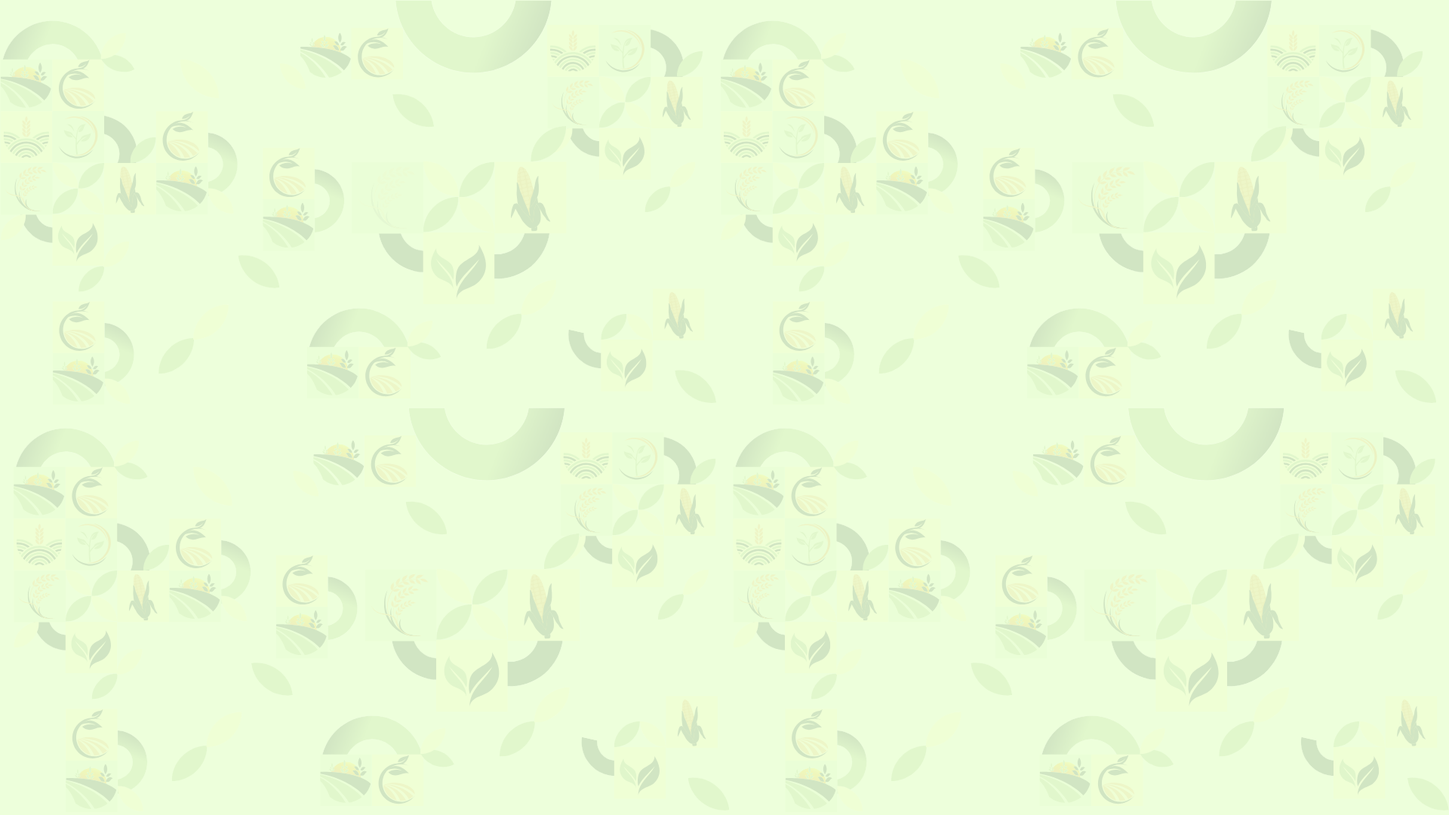
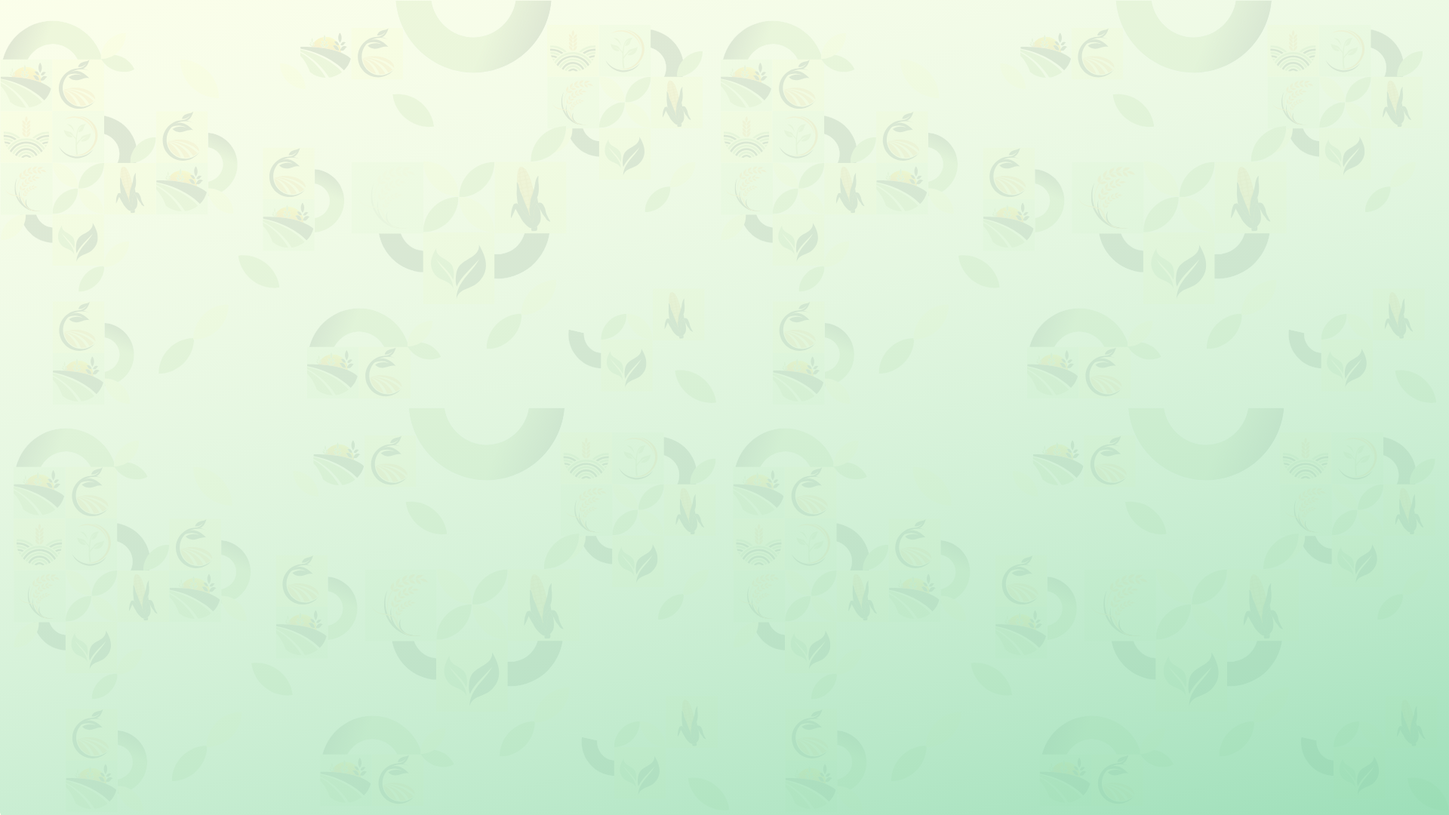
berubah tampilan

diff --git a/public/assets/css/style.css b/public/assets/css/style.css
@@ -8607,7 +8607,7 @@ h4, .h4 {
 }
 @media (min-width: 1200px) {
   h4, .h4 {
-    font-size: 1.5rem;
+    font-size: 1rem;
   }
 }
 
@@ -20914,7 +20914,8 @@ code {
 .page-header {
   padding: 7px;
   border-radius: 5px;
-  background-color: #a4d17c;
+  background-color: #18594f;
+  color: #ffffff;
 }
 .page-header .breadcrumb {
   border: 0;
@@ -22602,7 +22603,7 @@ code {
 
 /* gradient buttons */
 .btn-gradient-primary {
-  background: linear-gradient(to right ,#a4d17c ,#f4c35c);
+  background: linear-gradient(to right, #18594f, #2d7a30);
   border: 0;
   font-weight: bold;
   -webkit-transition: opacity 0.3s ease;
@@ -25830,7 +25831,7 @@ dl li {
   content: "\f0140";
 }
 .sidebar .nav .nav-item.active {
-  background: linear-gradient(to right, #dffdc5, #feffd8);
+    background: linear-gradient(to right, #efffe7, #feffd8);;
 }
 .sidebar .nav .nav-item.active > .nav-link .menu-title {
   color: #3b5740;
@@ -26379,7 +26380,7 @@ dl li {
   width: 100%;
   -webkit-flex-grow: 1;
   flex-grow: 1;
-  background: linear-gradient(to right, #f6ffef, #feffd8);
+  background: #f6f5e8;
 }
 
 .popup {
@@ -26452,14 +26453,14 @@ dl li {
 .judul-chart{
     text-align: center;
     font-weight: bold;
-    color: #3b5740;
-    background-color: #def4ca;
+    color: #ffffff;
+    background-color: #5d5e52;
     padding: 0.5rem;
 }
 
 .dropdownpadi{
   padding: 0.5rem;
-  background-color: #a4d17c;
+  background-color: #18594f;
   color: #FFFF;
   font-weight: bold;
   margin: 0.5rem;

diff --git a/resources/views/padi/dashboard.blade.php b/resources/views/padi/dashboard.blade.php
@@ -41,9 +41,9 @@
               <div class="card">
                 @if (Auth::user()->role == 'prov')
                   <div class="card-body">
-                    <div class="dropdownpadi" style="color: #3b5740;background-color: #def4ca;">
+                    <div class="dropdownpadi" style="color: #ffffff;background-color: #5d5e52;">
                         <label>Peta</label>
-                        <select id="petaSelect" style="background-color: #def4ca; border: transparent;color: #3b5740;font-weight: bold;">
+                        <select id="petaSelect" style="background-color: #5d5e52; border: transparent;color: #ffffff;font-weight: bold;">
                             <option value="sebaran">Sebaran Fase Amatan</option>
                             <option value="konsistensi">Konsistensi Perwilayah (subsegmen)</option>
                         </select>
@@ -62,7 +62,7 @@
                                 }
                             @endphp
                             <label for="tahun_peta">Tahun</label>
-                            <select id="tahun_peta" name="tahun_peta" style="background-color: #a4d17c; border: transparent;color: #FFFFFF;font-weight: bold;">
+                            <select id="tahun_peta" name="tahun_peta" style="background-color: #18594f; border: transparent;color: #FFFFFF;font-weight: bold;">
                                 @foreach($years as $year)
                                     <option value="{{ $year }}" {{ $currentYear == $year ? 'selected' : '' }}>{{ $year }}</option>
                                 @endforeach
@@ -74,7 +74,7 @@
                                 $currentMonth = old('bulan_peta', date('m')); // Gunakan nilai lama jika tersedia
                             @endphp
                             <label for="bulan_peta">Bulan</label>
-                            <select id="bulan_peta" name="bulan_peta" style="background-color: #a4d17c; border: transparent;color: #FFFFFF;font-weight: bold;">
+                            <select id="bulan_peta" name="bulan_peta" style="background-color: #18594f; border: transparent;color: #FFFFFF;font-weight: bold;">
                                 <option value="01" {{ $currentMonth == '01' ? 'selected' : '' }}>01 - Januari</option>
                                 <option value="02" {{ $currentMonth == '02' ? 'selected' : '' }}>02 - Februari</option>
                                 <option value="03" {{ $currentMonth == '03' ? 'selected' : '' }}>03 - Maret</option>
@@ -92,7 +92,7 @@
 
                         <div class="dropdownpadi" id="faseAmatan">
                             <label for="fase">Fase Amatan</label>
-                            <select id="fase" name="fase" style="background-color: #a4d17c; border: transparent;color: #FFFFFF;font-weight: bold;">
+                            <select id="fase" name="fase" style="background-color: #18594f; border: transparent;color: #FFFFFF;font-weight: bold;">
                                 <option value="1">01-Vegetatif Awal</option>
                                 <option value="2">02-Vegetatif Akhir</option>
                                 <option value="3">03-Generatif</option>
@@ -105,7 +105,7 @@
                             </select>
                         </div>
 
-                      <button id="lihat_peta" type="button" class="btn btn-gradient-primary btn-icon-text" style="padding:0.6rem;background: #a4d17c;margin: 0.5rem;">
+                      <button id="lihat_peta" type="button" class="btn btn-gradient-primary btn-icon-text" style="padding:0.6rem;background: #55926f;margin: 0.5rem;">
                         <i class="fa fa-refresh"></i> Lihat </button>
                     </div>
                     <div id="map" style="height: 70vh;background: #fbf8f8;"></div>
@@ -127,7 +127,7 @@
                             }
                         @endphp
                         <label for="tahun_progres">Tahun</label>
-                        <select id="tahun_progres" name="tahun_progres" style="background-color: #a4d17c; border: transparent;color: #FFFFFF;font-weight: bold;">
+                        <select id="tahun_progres" name="tahun_progres" style="background-color: #18594f; border: transparent;color: #FFFFFF;font-weight: bold;">
                             @foreach($years as $year)
                                 <option value="{{ $year }}" {{ $currentYear == $year ? 'selected' : '' }}>{{ $year }}</option>
                             @endforeach
@@ -139,7 +139,7 @@
                             $currentMonth = old('bulan_progres', date('m')); // Gunakan nilai lama jika tersedia
                         @endphp
                         <label for="bulan_progres">Bulan</label>
-                        <select id="bulan_progres" name="bulan_progres" style="background-color: #a4d17c; border: transparent;color: #FFFFFF;font-weight: bold;">
+                        <select id="bulan_progres" name="bulan_progres" style="background-color: #18594f; border: transparent;color: #FFFFFF;font-weight: bold;">
                             <option value="01" {{ $currentMonth == '01' ? 'selected' : '' }}>01 - Januari</option>
                             <option value="02" {{ $currentMonth == '02' ? 'selected' : '' }}>02 - Februari</option>
                             <option value="03" {{ $currentMonth == '03' ? 'selected' : '' }}>03 - Maret</option>
@@ -160,13 +160,13 @@
                             $currentMonth = old('jenis_progres', 'subsegmen'); // Gunakan nilai lama jika tersedia
                         @endphp
                       <label for="jenis_progres"></label>
-                          <select id="jenis_progres" name="jenis_progres" style="background-color: #a4d17c; border: transparent;color: #FFFFFF;font-weight: bold;">
+                          <select id="jenis_progres" name="jenis_progres" style="background-color: #18594f; border: transparent;color: #FFFFFF;font-weight: bold;">
                             <option value="subsegmen">Subsegmen</option>
                             <option value="segmen">Segmen</option>
                             <option value="evita">Segmen dan Status</option>
                           </select>
                     </div>
-                    <button id="lihat_progres" type="button" class="btn btn-gradient-primary btn-icon-text" style="padding:0.6rem;background: #a4d17c;margin: 0.5rem;">
+                    <button id="lihat_progres" type="button" class="btn btn-gradient-primary btn-icon-text" style="padding:0.6rem;background: #55926f;margin: 0.5rem;">
                         <i class="fa fa-refresh"></i> Lihat </button>
                     </div>
                     <div>
@@ -182,7 +182,7 @@
                             <h4 class="judul-chart"> Capaian Validasi </h4>
                             <div class="dropdown-chart">
                                 <div class="dropdownpadi">
-                                    <select id="jenis_capaian" style="background-color: #a4d17c; border: transparent;color: #FFFFFF;font-weight: bold;">
+                                    <select id="jenis_capaian" style="background-color: #18594f; border: transparent;color: #FFFFFF;font-weight: bold;">
                                         <option value="subsegmen">Subsegmen</option>
                                         <option value="segmen">Segmen</option>
                                         <option value="evita">Segmen dan Status</option>
@@ -190,12 +190,12 @@
                                 </div>
                                 @if (Auth::user()->role == 'prov')
                                 <div class="dropdownpadi">
-                                    <select id="wilayah_capaian" style="background-color: #a4d17c; border: transparent;color: #FFFFFF;font-weight: bold;">
+                                    <select id="wilayah_capaian" style="background-color: #18594f; border: transparent;color: #FFFFFF;font-weight: bold;">
                                         <option value="3399">Pilih Wilayah</option><option value="3300">Jawa Tengah</option><option value="3301">3301 - Cilacap</option><option value="3302">3302 - Banyumas</option><option value="3303">3303 - Purbalingga</option><option value="3304">3304 - Banjarnegara</option><option value="3305">3305 - Kebumen</option><option value="3306">3306 - Purworejo</option><option value="3307">3307 - Wonosobo</option><option value="3308">3308 - Magelang</option><option value="3309">3309 - Boyolali</option><option value="3310">3310 - Klaten</option><option value="3311">3311 - Sukoharjo</option><option value="3312">3312 - Wonogiri</option><option value="3313">3313 - Karanganyar</option><option value="3314">3314 - Sragen</option><option value="3315">3315 - Grobogan</option><option value="3316">3316 - Blora</option><option value="3317">3317 - Rembang</option><option value="3318">3318 - Pati</option><option value="3319">3319 - Kudus</option><option value="3320">3320 - Jepara</option><option value="3321">3321 - Demak</option><option value="3322">3322 - Semarang</option><option value="3323">3323 - Temanggung</option><option value="3324">3324 - Kendal</option><option value="3325">3325 - Batang</option><option value="3326">3326 - Pekalongan</option><option value="3327">3327 - Pemalang</option><option value="3328">3328 - Tegal</option><option value="3329">3329 - Brebes</option><option value="3371">3371 - Kota Magelang</option><option value="3372">3372 - Kota Surakarta</option><option value="3373">3373 - Kota Salatiga</option><option value="3374">3374 - Kota Semarang</option><option value="3375">3375 - Kota Pekalongan</option><option value="3376">3376 - Kota Tegal</option></select>
                                     </select>
                                 </div>
                                 @endif
-                                <button type="button" id="lihat_capaian" class="btn btn-gradient-primary btn-icon-text" style="padding:0.6rem;background: #a4d17c;margin: 0.5rem;">
+                                <button type="button" id="lihat_capaian" class="btn btn-gradient-primary btn-icon-text" style="padding:0.6rem;background: #55926f;margin: 0.5rem;">
                                 <i class="fa fa-refresh"></i> Lihat </button>
                             </div>
                         <div id="capaian" class="col-lg-6 grid-margin stretch-card">

diff --git a/resources/views/jagung/dashboard.blade.php b/resources/views/jagung/dashboard.blade.php
@@ -35,15 +35,15 @@
 
         <!-- partial -->
         <div class="main-panel">
-          <div class="content-wrapper" style="background: linear-gradient(to right, #f4ffc8, #ddf3ca);">
+          <div class="content-wrapper" style="background:#fdffe9;">
           <div class="row">
               <div class="col-12 grid-margin stretch-card">
               <div class="card">
                 @if (Auth::user()->role == "prov")
                   <div class="card-body">
-                    <div class="dropdownpadi" style="color: #3b5740;background-color: #def4ca;">
+                    <div class="dropdownpadi" style="color: #ffffff;background-color: #5d5e52;">
                         <label>Peta</label>
-                        <select id="petaSelect" style="background-color: #def4ca; border: transparent;color: #3b5740;font-weight: bold;">
+                        <select id="petaSelect" style="background-color: #5d5e52; border: transparent;color: #ffffff;font-weight: bold;">
                             <option value="sebaran">Sebaran Fase Amatan</option>
                             <option value="konsistensi">Konsistensi Perwilayah (subsegmen)</option>
                         </select>
@@ -62,7 +62,7 @@
                                 }
                             @endphp
                             <label for="tahun_peta">Tahun</label>
-                            <select id="tahun_peta" name="tahun_peta" style="background-color: #a4d17c; border: transparent;color: #FFFFFF;font-weight: bold;">
+                            <select id="tahun_peta" name="tahun_peta" style="background-color: #18594f; border: transparent;color: #FFFFFF;font-weight: bold;">
                                 @foreach($years as $year)
                                     <option value="{{ $year }}" {{ $currentYear == $year ? 'selected' : '' }}>{{ $year }}</option>
                                 @endforeach
@@ -74,7 +74,7 @@
                                 $currentMonth = old('bulan_peta', date('m')); // Gunakan nilai lama jika tersedia
                             @endphp
                             <label for="bulan_peta">Bulan</label>
-                            <select id="bulan_peta" name="bulan_peta" style="background-color: #a4d17c; border: transparent;color: #FFFFFF;font-weight: bold;">
+                            <select id="bulan_peta" name="bulan_peta" style="background-color: #18594f; border: transparent;color: #FFFFFF;font-weight: bold;">
                                 <option value="01" {{ $currentMonth == '01' ? 'selected' : '' }}>01 - Januari</option>
                                 <option value="02" {{ $currentMonth == '02' ? 'selected' : '' }}>02 - Februari</option>
                                 <option value="03" {{ $currentMonth == '03' ? 'selected' : '' }}>03 - Maret</option>
@@ -92,7 +92,7 @@
 
                         <div class="dropdownpadi" id="faseAmatan">
                             <label for="fase">Fase Amatan</label>
-                            <select id="fase" name="fase" style="background-color: #a4d17c; border: transparent;color: #FFFFFF;font-weight: bold;">
+                            <select id="fase" name="fase" style="background-color: #18594f; border: transparent;color: #FFFFFF;font-weight: bold;">
                                 <option value="1">01-Vegetatif Awal</option>
                                 <option value="2">02-Vegetatif Akhir</option>
                                 <option value="3">03-Reproduktif Awal</option>
@@ -129,7 +129,7 @@
                             }
                         @endphp
                         <label for="tahun_progres">Tahun</label>
-                        <select id="tahun_progres" name="tahun_progres" style="background-color: #a4d17c; border: transparent;color: #FFFFFF;font-weight: bold;">
+                        <select id="tahun_progres" name="tahun_progres" style="background-color: #18594f; border: transparent;color: #FFFFFF;font-weight: bold;">
                             @foreach($years as $year)
                                 <option value="{{ $year }}" {{ $currentYear == $year ? 'selected' : '' }}>{{ $year }}</option>
                             @endforeach
@@ -141,7 +141,7 @@
                             $currentMonth = old('bulan_progres', date('m')); // Gunakan nilai lama jika tersedia
                         @endphp
                         <label for="bulan_progres">Bulan</label>
-                        <select id="bulan_progres" name="bulan_progres" style="background-color: #a4d17c; border: transparent;color: #FFFFFF;font-weight: bold;">
+                        <select id="bulan_progres" name="bulan_progres" style="background-color: #18594f; border: transparent;color: #FFFFFF;font-weight: bold;">
                             <option value="01" {{ $currentMonth == '01' ? 'selected' : '' }}>01 - Januari</option>
                             <option value="02" {{ $currentMonth == '02' ? 'selected' : '' }}>02 - Februari</option>
                             <option value="03" {{ $currentMonth == '03' ? 'selected' : '' }}>03 - Maret</option>
@@ -162,7 +162,7 @@
                             $currentMonth = old('jenis_progres', 'subsegmen'); // Gunakan nilai lama jika tersedia
                         @endphp
                       <label for="jenis_progres"></label>
-                          <select id="jenis_progres" name="jenis_progres" style="background-color: #a4d17c; border: transparent;color: #FFFFFF;font-weight: bold;">
+                          <select id="jenis_progres" name="jenis_progres" style="background-color: #18594f; border: transparent;color: #FFFFFF;font-weight: bold;">
                             <option value="subsegmen">Subsegmen</option>
                             <option value="segmen">Segmen</option>
                             <option value="evita">Segmen dan Status</option>
@@ -184,7 +184,7 @@
                             <h4 class="judul-chart"> Capaian Validasi </h4>
                             <div class="dropdown-chart">
                                 <div class="dropdownpadi">
-                                    <select id="jenis_capaian" style="background-color: #a4d17c; border: transparent;color: #FFFFFF;font-weight: bold;">
+                                    <select id="jenis_capaian" style="background-color: #18594f; border: transparent;color: #FFFFFF;font-weight: bold;">
                                         <option value="subsegmen">Subsegmen</option>
                                         <option value="segmen">Segmen</option>
                                         <option value="evita">Segmen dan Status</option>
@@ -192,7 +192,7 @@
                                 </div>
                                 @if (Auth::user()->role == "prov")
                                 <div class="dropdownpadi">
-                                    <select id="wilayah_capaian" style="background-color: #a4d17c; border: transparent;color: #FFFFFF;font-weight: bold;">
+                                    <select id="wilayah_capaian" style="background-color: #18594f ;border: transparent;color: #FFFFFF;font-weight: bold;">
                                         <option value="3399">Pilih Wilayah</option><option value="3300">Jawa Tengah</option><option value="3301">3301 - Cilacap</option><option value="3302">3302 - Banyumas</option><option value="3303">3303 - Purbalingga</option><option value="3304">3304 - Banjarnegara</option><option value="3305">3305 - Kebumen</option><option value="3306">3306 - Purworejo</option><option value="3307">3307 - Wonosobo</option><option value="3308">3308 - Magelang</option><option value="3309">3309 - Boyolali</option><option value="3310">3310 - Klaten</option><option value="3311">3311 - Sukoharjo</option><option value="3312">3312 - Wonogiri</option><option value="3313">3313 - Karanganyar</option><option value="3314">3314 - Sragen</option><option value="3315">3315 - Grobogan</option><option value="3316">3316 - Blora</option><option value="3317">3317 - Rembang</option><option value="3318">3318 - Pati</option><option value="3319">3319 - Kudus</option><option value="3320">3320 - Jepara</option><option value="3321">3321 - Demak</option><option value="3322">3322 - Semarang</option><option value="3323">3323 - Temanggung</option><option value="3324">3324 - Kendal</option><option value="3325">3325 - Batang</option><option value="3326">3326 - Pekalongan</option><option value="3327">3327 - Pemalang</option><option value="3328">3328 - Tegal</option><option value="3329">3329 - Brebes</option><option value="3371">3371 - Kota Magelang</option><option value="3372">3372 - Kota Surakarta</option><option value="3373">3373 - Kota Salatiga</option><option value="3374">3374 - Kota Semarang</option><option value="3375">3375 - Kota Pekalongan</option><option value="3376">3376 - Kota Tegal</option></select>
                                     </select>
                                 </div>

diff --git a/resources/views/components/navbar-ubin.blade.php b/resources/views/components/navbar-ubin.blade.php
@@ -1,7 +1,7 @@
 <!-- resources/views/components/navbar.blade.php -->
  <!-- Navbar -->
-      <nav class="navbar default-layout-navbar col-lg-12 col-12 p-0 fixed-top d-flex flex-row" style ="background-image: url(/assets/img/bg-mode3.png);">
-        <div class="text-center navbar-brand-wrapper d-flex align-items-center justify-content-start" style ="background-image: url(/assets/img/bg-mode3.png);">
+      <nav class="navbar default-layout-navbar col-lg-12 col-12 p-0 fixed-top d-flex flex-row" style ="background-image: url(/assets/img/bg-mode3.png);background-position: center;">
+        <div class="text-center navbar-brand-wrapper d-flex align-items-center justify-content-start" style ="background-image: url(/assets/img/bg-mode3.png);background-position: center;">
           <a class="navbar-brand brand-logo" href="/index"><img src="/assets/img/logo-full.png" alt="logo" /></a>
           <a class="navbar-brand brand-logo-mini" href="/index"><img src="/assets/img/logo.png" alt="logo" /></a>
         </div>
@@ -88,7 +88,7 @@
       <!-- partial -->
       <div class="container-fluid page-body-wrapper">
         <!-- partial:../../partials/_sidebar.html -->
-        <nav class="sidebar sidebar-offcanvas" id="sidebar" style ="background-image: url(/assets/img/bg-mode3.png);">
+        <nav class="sidebar sidebar-offcanvas" id="sidebar" style ="background-image: url(/assets/img/bg-mode3.png);background-position: center;">
           <ul class="nav">
             <li class="nav-item">
               <a class="nav-link" href="{{ route('ubinan.lacak') }}">

diff --git a/resources/views/components/navbar-jagung.blade.php b/resources/views/components/navbar-jagung.blade.php
@@ -1,11 +1,11 @@
 <!-- resources/views/components/navbar.blade.php -->
  <!-- Navbar -->
       <nav class="navbar default-layout-navbar col-lg-12 col-12 p-0 fixed-top d-flex flex-row">
-        <div class="text-center navbar-brand-wrapper d-flex align-items-center justify-content-start" style ="background-image: url(/assets/img/bg-mode2.png);">
+        <div class="text-center navbar-brand-wrapper d-flex align-items-center justify-content-start" style ="background-image: url(/assets/img/bg-mode2.png);background-position:top">
           <a class="navbar-brand brand-logo" href="{{ route('jagung_dashboard') }}"><img src="/assets/img/logo-full.png" alt="logo" /></a>
           <a class="navbar-brand brand-logo-mini" href="{{ route('jagung_dashboard') }}"><img src="/assets/img/logo.png" alt="logo" /></a>
         </div>
-        <div class="navbar-menu-wrapper d-flex align-items-stretch" style ="background-image: url(/assets/img/bg-mode2.png);">
+        <div class="navbar-menu-wrapper d-flex align-items-stretch" style ="background-image: url(/assets/img/bg-mode2.png);background-position:top"">
           <button class="navbar-toggler navbar-toggler align-self-center" type="button" data-toggle="minimize">
             <span class="mdi mdi-menu"></span>
           </button>

diff --git a/resources/views/ubinan/kelola.blade.php b/resources/views/ubinan/kelola.blade.php
@@ -32,7 +32,7 @@
 
         <!-- partial -->
         <div class="main-panel">
-          <div class="content-wrapper" style="background: linear-gradient(to right, #f1edc1, #dbe4be);">
+          <div class="content-wrapper" style="background: linear-gradient(to right, #f3efe7, #fff8e9);">
             <div class="page-header" style="background-color: #5e5741">
               <h3 class="page-title"> Database Petani</h3>
               <button type="button" id="tambah_btn" class="btn btn-gradient-primary btn-icon-text" onclick="tambah()" style="background: linear-gradient(to right, #696b4c, #b9af49)"  data-toggle="modal" data-target="#editModal"  data-backdrop="static" data-keyboard="false">

diff --git a/resources/views/components/navbar-padi.blade.php b/resources/views/components/navbar-padi.blade.php
@@ -29,9 +29,6 @@
                 </div>
               </a>
               <div class="dropdown-menu navbar-dropdown" aria-labelledby="profileDropdown">
-                {{-- <a class="dropdown-item" href="#">
-                  <i class="mdi mdi-cached me-2 text-success"></i> Backup Database </a>
-                <div class="dropdown-divider"></div> --}}
                 <a class="dropdown-item" href="{{ route('logout') }}">
                   <i class="mdi mdi-logout me-2 text-primary"></i> Logout
                 </a>

diff --git a/resources/views/jagung/unggah.blade.php b/resources/views/jagung/unggah.blade.php
@@ -29,7 +29,7 @@
 
         <!-- partial -->
         <div class="main-panel">
-            <div class="content-wrapper" style="background: linear-gradient(to right, #f4ffc8, #ddf3ca);">
+            <div class="content-wrapper" style="background:#fdffe9;">
                 <div class="row" id="atas">
                     @if (session('success'))
                         <div class="alert alert-success alert-dismissible fade show" role="alert">

diff --git a/resources/views/ubinan/potensial.blade.php b/resources/views/ubinan/potensial.blade.php
@@ -32,7 +32,7 @@
 
         <!-- partial -->
         <div class="main-panel">
-          <div class="content-wrapper" style="background: linear-gradient(to right, #f1edc1, #dbe4be);">
+          <div class="content-wrapper" style="background: linear-gradient(to right, #f3efe7, #fff8e9);">
             <div class="page-header" style="background-color: #5e5741">
               <h3 class="page-title">Amatan Potensial</h3>
             </div>

diff --git a/resources/views/ubinan/unggah.blade.php b/resources/views/ubinan/unggah.blade.php
@@ -29,7 +29,7 @@
 
         <!-- partial -->
         <div class="main-panel">
-        <div class="content-wrapper" style="background: linear-gradient(to right, #f1edc1, #dbe4be);">
+        <div class="content-wrapper" style="background: linear-gradient(to right, #f3efe7, #fff8e9);">
             <div class="page-header" style="background-color: #5e5741">
               <h3 class="page-title"> Unggah Data Ubinan </h3>
             </div>

diff --git a/resources/views/ubinan/panduan.blade.php b/resources/views/ubinan/panduan.blade.php
@@ -29,7 +29,7 @@
 
         <!-- partial -->
         <div class="main-panel">
-          <div class="content-wrapper" style="background: linear-gradient(to right, #f1edc1, #dbe4be);">
+          <div class="content-wrapper" style="background: linear-gradient(to right, #f3efe7, #fff8e9);">
           <div class="page-header" style="background-color: #5e5741">
             <h3 class="page-title"> Panduan Teknis </h3>
             </div>

diff --git a/resources/views/ubinan/riwayat.blade.php b/resources/views/ubinan/riwayat.blade.php
@@ -36,7 +36,7 @@
 
         <!-- partial -->
         <div class="main-panel">
-          <div class="content-wrapper" style="background: linear-gradient(to right, #f1edc1, #dbe4be);">
+          <div class="content-wrapper" style="background: linear-gradient(to right, #f3efe7, #fff8e9);">
             <div class="page-header" style="background-color: #5e5741">
               <h3 class="page-title"> Riwayat </h3>
             </div>
